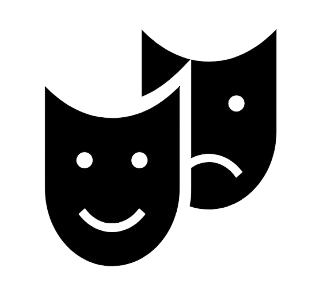
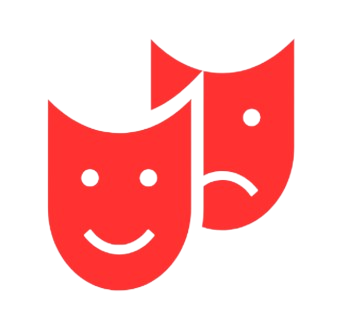
[dyad] Substituição do ícone de Artes Cênicas pela nova imagem anexada - wrote 2 file(s)

diff --git a/src/pages/Index.tsx b/src/pages/Index.tsx
@@ -10,7 +10,6 @@ import { Button } from '@/components/ui/button';
 import { useIsMobile } from '@/hooks/use-mobile';
 
 // Importando os ícones e as imagens de fundo
-import iconCenicas from '@/assets/icon-cenicas.png';
 import iconAudiovisual from '@/assets/icon-audiovisual.png';
 import iconLiteratura from '@/assets/icon-literatura.png';
 import iconArtesanato from '@/assets/icon-artesanato.png';
@@ -23,6 +22,7 @@ import waveRight from '@/assets/wave-right.png';
 // Novos ícones enviados
 import iconMusica from '../../.dyad/media/89788568739c2801b420fc906edcac85b18bc344486da53b8290c2a0c1a7167b.png';
 import iconVisuais from '../../.dyad/media/82d0adce100c586902cd62f56438d5adaaf5878dd998ec90e517ac72f31aa9c3.png';
+import iconCenicas from '../../.dyad/media/132a138c8493a519540ea548d3b95febb3291401f7e225657feb1e0944129bb4.png';
 
 const Index = () => {
   const isMobile = useIsMobile();
